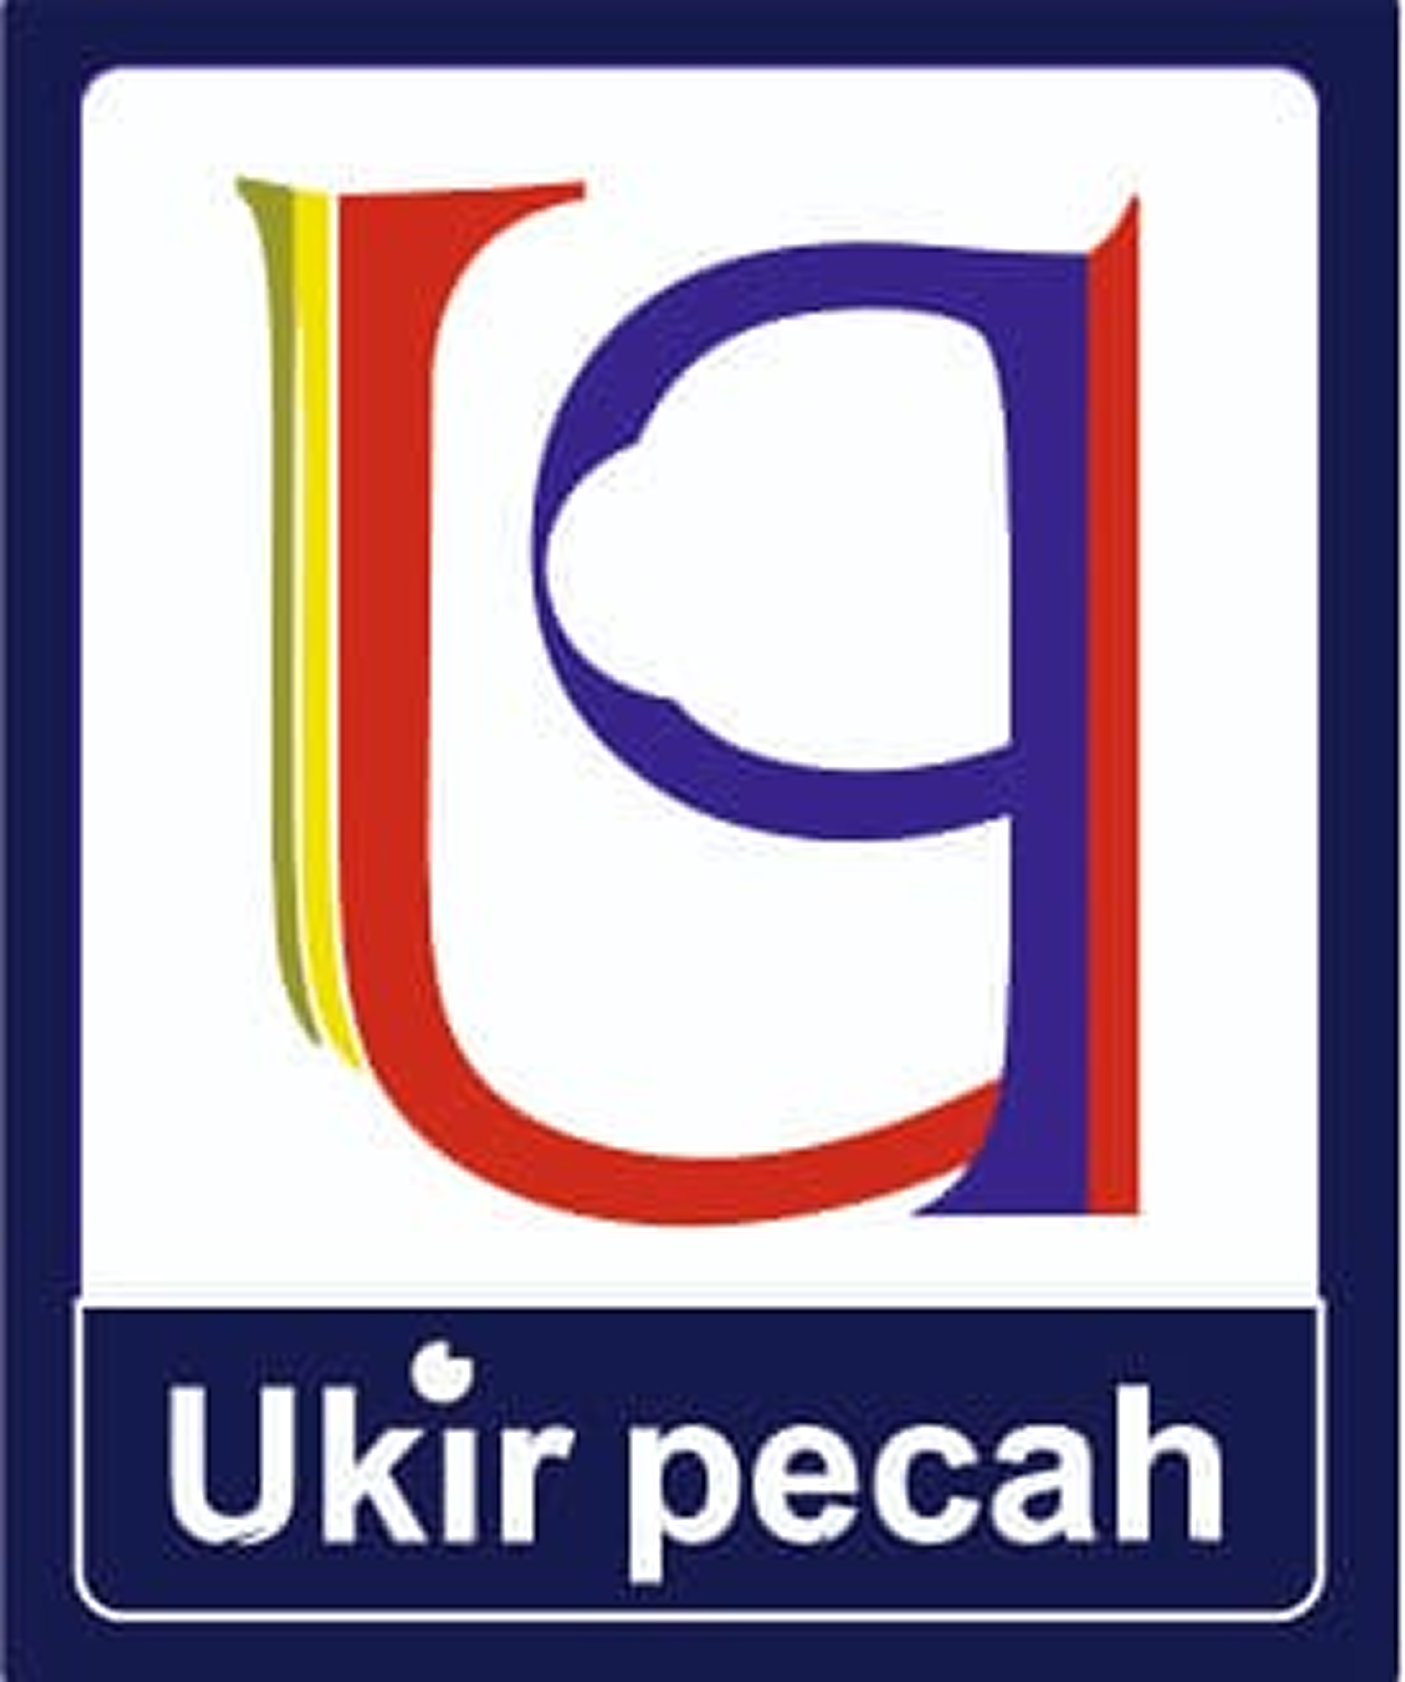
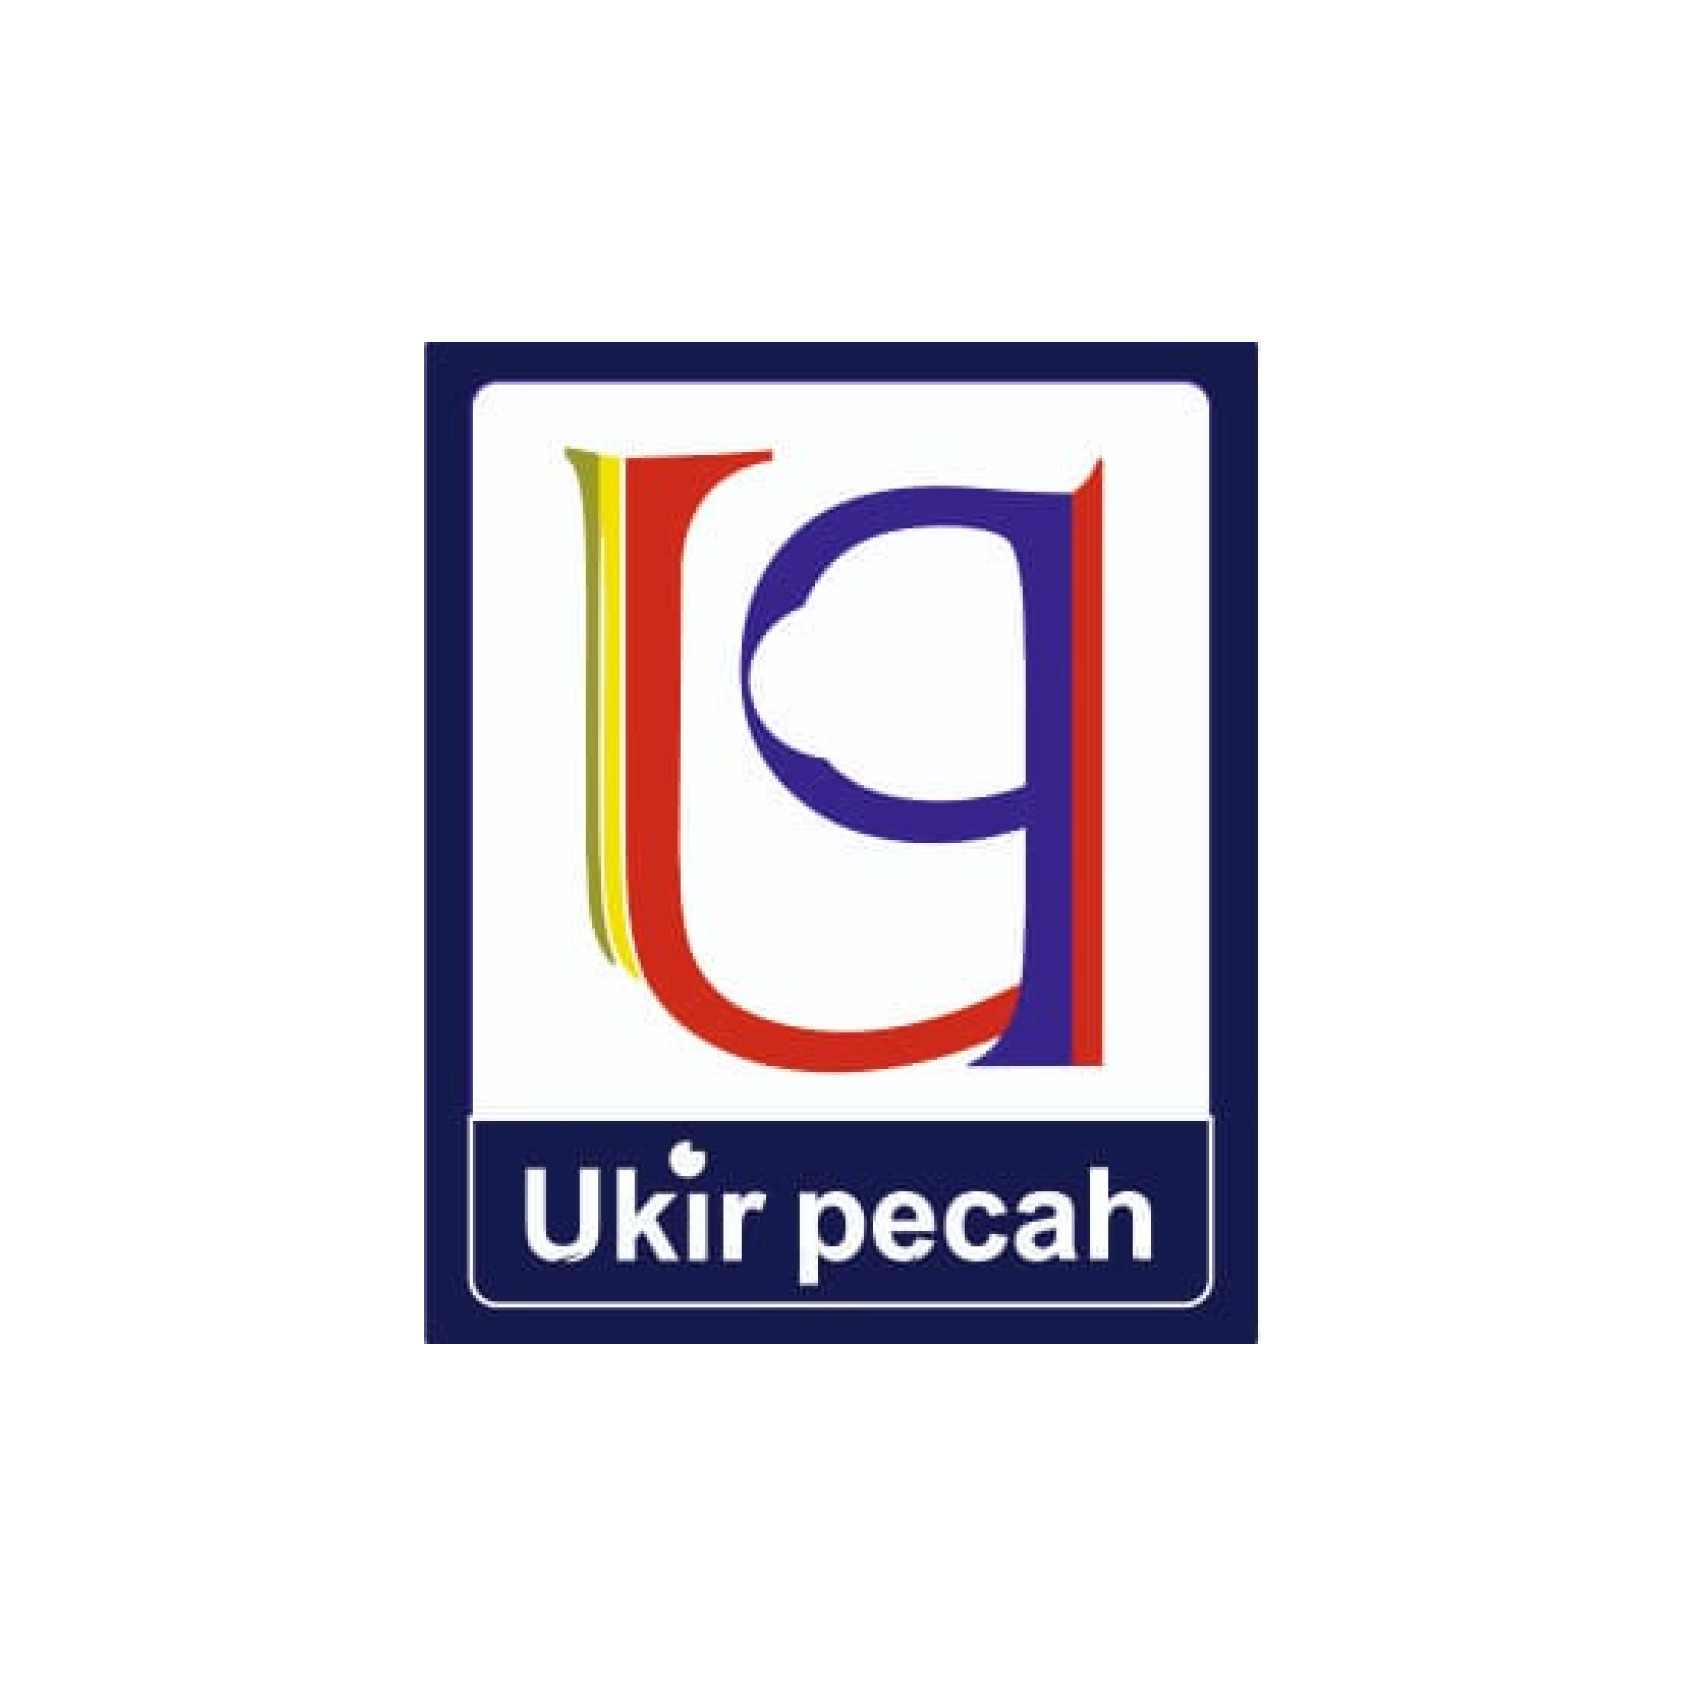
update sponsor

diff --git a/styles/contact.css b/styles/contact.css
@@ -19,8 +19,13 @@
 }
 
 .item-sponsor img {
-  width: 80px;
-  height: 80px;
+  width: 100px;
+  height: 100px;
+}
+
+.item-sponsor.nelongso img {
+  /* width: 100px; */
+  height: 50px;
 }
 
 .sponsor .headings, .sponsorship, .medpart {

diff --git a/sponsor.php b/sponsor.php
@@ -2,16 +2,16 @@
     <p class="heading-3-medium">Sponsorship</p>
     <div class="sponsor-content">
         <div class="item-sponsor">
-            <img src="img/ukir-pecah.png" alt="">
+            <img src="img/utm-water.png" alt="">
+        </div>
+        <div class="item-sponsor nelongso">
+            <img src="img/nelongso.png" alt="">
         </div>
         <div class="item-sponsor">
             <img src="img/haifa.png" alt="">
         </div>
         <div class="item-sponsor">
-            <img src="img/nelongso.png" alt="">
-        </div>
-        <div class="item-sponsor">
-            <img src="img/utm-water.png" alt="">
+            <img src="img/ukir-pecah.png" alt="">
         </div>
         <div class="item-sponsor">
             <img src="img/wbl.png" alt="">
